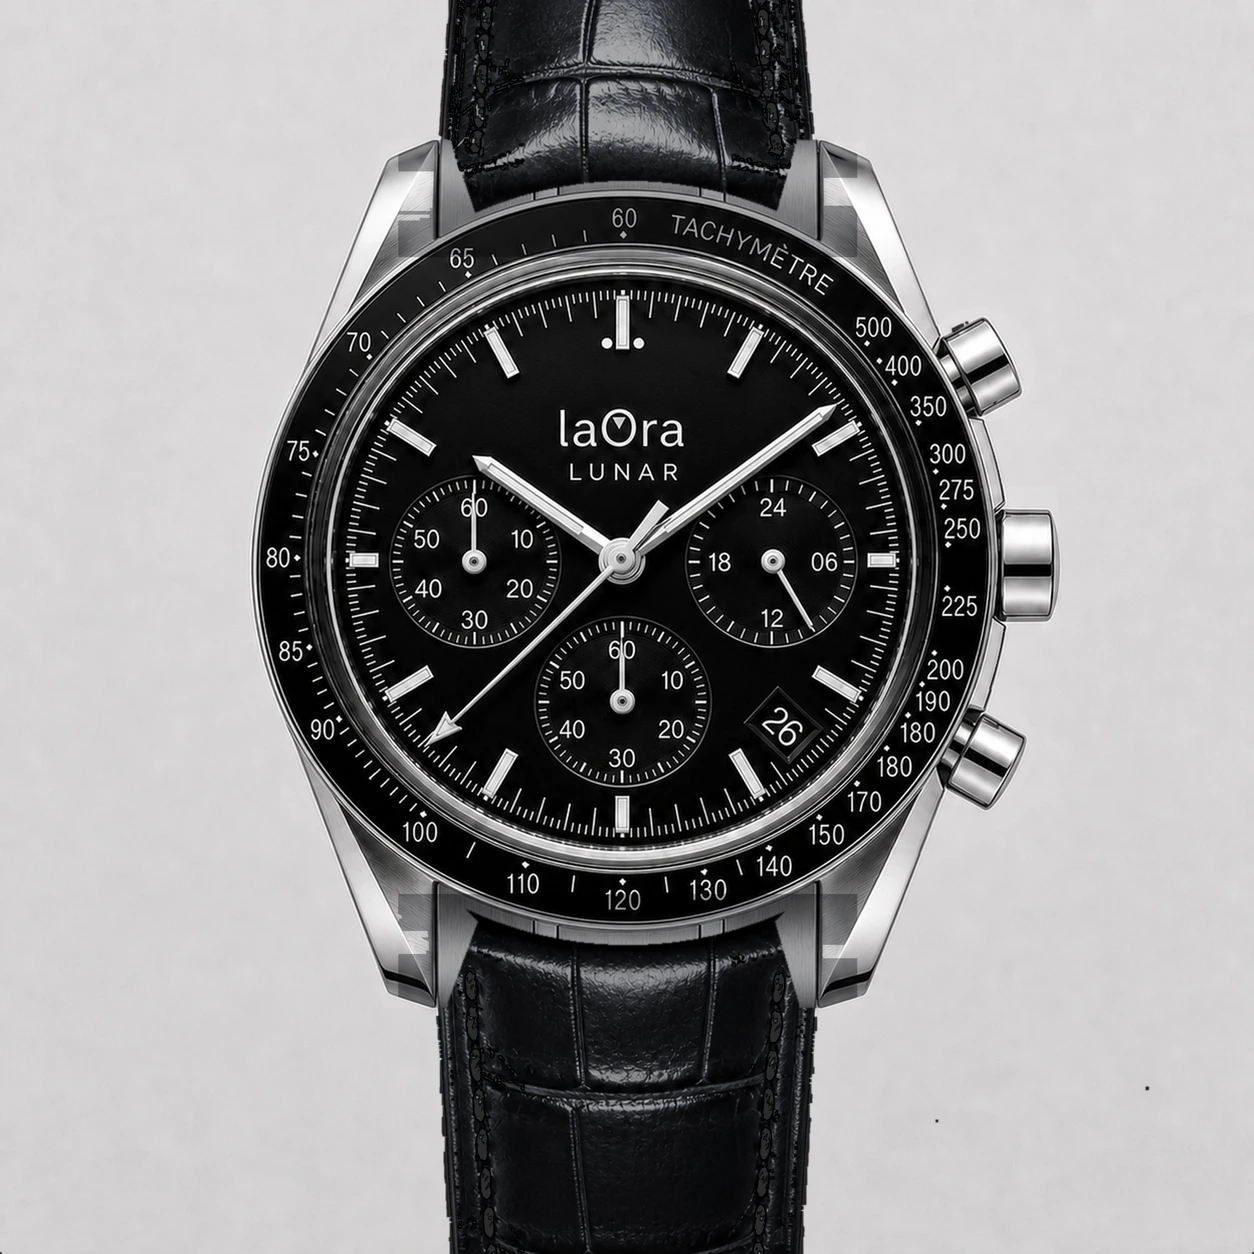
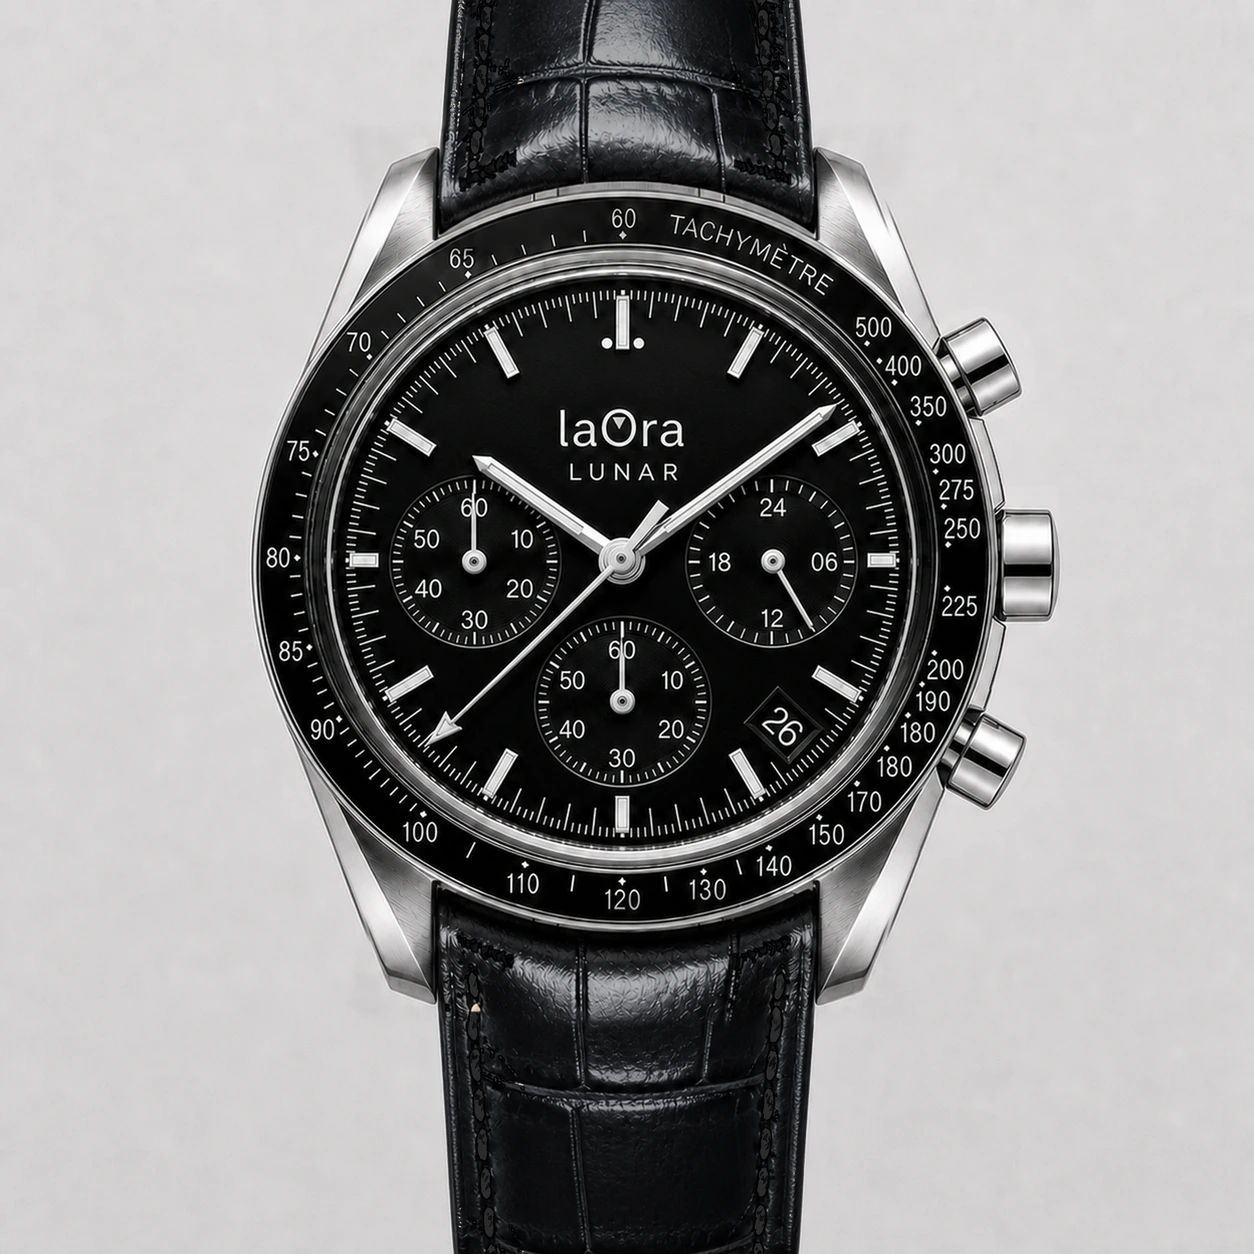
Lunar: madre integrada para la piel italiana negra
La nueva de Óscar: la correa abraza la caja con volumen, no apoyada
encima. Comprobado que encajan todas las cabezas, la de acero, la de
bisel azul y la negra PVD, sin que asome nada.

El pespunte al tono hubo que rehacerlo con otro método. En esta foto el
charol brilla hasta 0,99 y el hilo ya no se separa por luz —en la madre
anterior el reflejo más fuerte era 0,57 y bastaba un umbral—. Lo que sí
es fijo es dónde va la costura: a un 11% y un 88% del ancho de la
correa, fila a fila. Los reflejos viven en el centro y quedan fuera.

Changed region(s): [[0.2799, 0.6842, 0.7153, 1.0], [0.2799, 0.0, 0.7153, 0.2488], [0.9952, 0.9952, 1.0, 1.0]]

diff --git a/lunar.html b/lunar.html
@@ -651,7 +651,7 @@
   });
 
   /* El manifiesto manda: de él salen las rutas de todas las capas. */
-  fetch('/assets/img/lunar-config/manifest.json?v=19')
+  fetch('/assets/img/lunar-config/manifest.json?v=20')
     .then(function (r) { return r.json(); })
     .then(function (m) { M = m; normaliza(); pinta(); });
 })();

diff --git a/herramientas/recolorear_pespunte.py b/herramientas/recolorear_pespunte.py
@@ -140,7 +140,22 @@ def hilo_blanco_a_negro():
                      .filter(ImageFilter.MaxFilter(21))
                      .resize(a.shape[1::-1], Image.NEAREST)) > 128
     correa = (~fondo) & (~cab)
-    hilo = correa & (v > 0.72)
+
+    # La madre nueva (integrada, 18/08) tiene un charol mucho más
+    # brillante: sus reflejos llegan a 0,99 y ya no se separan del hilo
+    # por luz, como pasaba con la anterior. Lo que sí es fijo es DÓNDE
+    # va la costura: a un 11% y un 88% del ancho de la correa, fila a
+    # fila. Los reflejos viven en el centro y quedan fuera.
+    dentro = np.zeros_like(correa)
+    for y in np.flatnonzero(correa.any(axis=1)):
+        xs = np.flatnonzero(correa[y])
+        x0, x1 = xs.min(), xs.max()
+        ancho = x1 - x0
+        if ancho < 60:
+            continue
+        for a0, a1 in ((0.05, 0.20), (0.80, 0.95)):
+            dentro[y, int(x0 + ancho * a0):int(x0 + ancho * a1)] = True
+    hilo = correa & dentro & (v > 0.55)
     print('hilo crema aislado: %d px' % hilo.sum())
 
     peso = np.asarray(Image.fromarray((hilo * 255).astype('uint8'))
